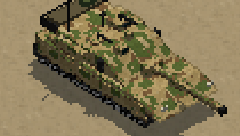
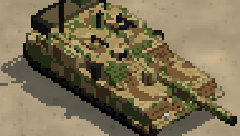
Amphibians on the unit strip with their own portraits, and squads straight into an AV at the ship
- Landing.loadAmphib(v, only): a squad from the well dock, or back off a craft that has not cast off
  (the craft fill the moment men arrive), straight aboard an amphibious vehicle lying at the pen;
  the player's Load does it for a selected waiting squad (input.loadInto), the commander's ride()
  for its AV before it gets armour orders; Landing.waitingSquads; the pen covers every mooring
- roster.js picks the amphib/amphibSupply portraits and tags the AV as AAV
- tools/make-portraits.mjs renders the two by name on any map, and cancels the opening flight,
  which had been carrying the camera off every subject since it came in; every portrait
  re-rendered from the vox models

diff --git a/src/game/landing.js b/src/game/landing.js
@@ -28,7 +28,7 @@ export class Landing {
   held(l) { const o = this.m.objectives, p = o && o.list.find(q => q.name === l.place); return !!p && p.owner === this.team; }
   dumpAt(x, z) { return this.lanes.some(l => this.held(l) && Math.hypot(x - l.at.x, z - l.at.z) < RULES.landing.dump); }
   refillPoint(x, z, amphib = false) { const d = this.lanes.filter(l => this.held(l)).sort((a, b) => Math.hypot(a.at.x - x, a.at.z - z) - Math.hypot(b.at.x - x, b.at.z - z))[0]; return d ? d.at : amphib ? this.pen() : this.home(); }
-  pen() { const [dx, dz] = this.sea.dock, h = this.sea.out; return { x: dx + Math.sin(h) * 30, z: dz + Math.cos(h) * 30, r: 40 }; }   // the water off the stern, where an amphibious carrier comes home to fill up
+  pen() { const [dx, dz] = this.sea.dock, h = this.sea.out; return { x: dx + Math.sin(h) * 36, z: dz + Math.cos(h) * 36, r: 60 }; }   // the water off the stern, where an amphibious carrier comes home to fill up
   atPen(x, z) { const p = this.pen(); return Math.hypot(x - p.x, z - p.z) < p.r || this.atShip(x, z); }
 
   // where an amphibious vehicle lies when it is home: moorings off the stern quarters, the first with no vehicle on it
@@ -38,6 +38,20 @@ export class Landing {
     return spots.find(([x, z]) => !U.some(u => !u.dead && !u.afloat && !u.spec.naval && Math.hypot(u.pos.x - x, u.pos.z - z) < 6)) || spots[0];
   }
   moor(u) { const [x, z] = this.mooring(); u.afloat = false; u.mounted = null; u.group.visible = true; u.pos.set(x, this.m.world.terrain.water, z); u.heading = this.sea.out; u.group.rotation.y = u.heading; u.speed = 0; u.target = null; u.dest = null; u.path = null; }
+  // a squad waiting in the well dock, or aboard a craft still in it, straight into an amphibious vehicle lying alongside:
+  // the first squad with room for all its men, or the loose soldiers, as many as there are seats; returns how many went
+  // aboard. The craft fill the moment men arrive, so a vehicle alongside takes its squad back off one before it casts off
+  waitingSquads() { return [this.dock, ...this.craft.filter(c => !c.dead && c.state === 'dock')].flatMap(h => h.passengers).filter(u => u.type === 'soldier' && u.squad).length; }   // men a vehicle alongside could take
+  loadAmphib(v, only = null) {
+    if (!v.amphib || v.dead || !this.atPen(v.pos.x, v.pos.z)) return 0;
+    const holds = [this.dock, ...this.craft.filter(c => !c.dead && c.state === 'dock')], within = (u) => holds.some(h => h.passengers.includes(u));
+    const men = holds.flatMap(h => h.passengers).filter(u => u.type === 'soldier' && (!only || only.includes(u))), room = (v.spec.seats || 0) - v.passengers.length;
+    if (room <= 0 || !men.length) return 0;
+    const sq = men.map(u => u.squad).find(s => s && s.members.filter(m => !m.dead && within(m)).length <= room);
+    const take = (sq ? men.filter(u => u.squad === sq) : men).slice(0, room);
+    for (const u of take) { const h = holds.find(x => x.passengers.includes(u)); h.passengers.splice(h.passengers.indexOf(u), 1); u.afloat = false; u.mount(v); }
+    return take.length;
+  }
   // a unit into the well dock: hidden, aboard nothing yet, waiting for the next craft out (an amphibian to a mooring instead)
   embark(u) {
     if (u.amphib) { this.moor(u); return; }

diff --git a/src/core/roster.js b/src/core/roster.js
@@ -105,7 +105,7 @@ export class Roster {
     return d;
   }
   vehicle(u) {
-    const m = this.app.match, [sub, ord] = VEH[u.type], d = { key: 'v:' + u.label, label: u.label, sub: u.supply ? 'SUPPLY' : sub, pic: u.supply ? 'supply' : u.type, kind: 'veh', ord, units: [u], anchor: u.pos };
+    const m = this.app.match, [sub, ord] = VEH[u.type], d = { key: 'v:' + u.label, label: u.label, sub: u.supply ? 'SUPPLY' : u.amphib ? 'AAV' : sub, pic: u.amphib ? (u.supply ? 'amphibSupply' : 'amphib') : u.supply ? 'supply' : u.type, kind: 'veh', ord, units: [u], anchor: u.pos };
     d.hp = u.hp / u.maxHp; if (u.supply) d.sup = u.supplies / RULES.fob.truckSupplies; if (u.seats) d.seat = `${u.passengers.length}/${u.seats}`;
     d.alert = this.hit(d.key, [u], u.hp);
     const feeding = m.fobs.builds.find(b => b.truck === u), go = u.dest || u.target, air = u.spec.air;
@@ -122,7 +122,7 @@ export class Roster {
   }
   lost(e, T) {   // a destroyed vehicle waiting at main
     const u = e.unit, [sub, ord] = VEH[u.type], q = this.eta(e, T);
-    return { key: 'v:' + u.label, label: u.label, sub: u.supply ? 'SUPPLY' : sub, pic: u.supply ? 'supply' : u.type, kind: 'veh', ord, units: [], anchor: T.base, down: true, glyph: 'clock', text: `Destroyed · back in ${mmss(q.t)}`, ring: { f: 1 - q.t / Math.max(q.t, q.total), t: q.t, glyph: 'clock', color: 'var(--muted)' } };
+    return { key: 'v:' + u.label, label: u.label, sub: u.supply ? 'SUPPLY' : u.amphib ? 'AAV' : sub, pic: u.amphib ? (u.supply ? 'amphibSupply' : 'amphib') : u.supply ? 'supply' : u.type, kind: 'veh', ord, units: [], anchor: T.base, down: true, glyph: 'clock', text: `Destroyed · back in ${mmss(q.t)}`, ring: { f: 1 - q.t / Math.max(q.t, q.total), t: q.t, glyph: 'clock', color: 'var(--muted)' } };
   }
   site(b) {   // a build going up: its own card until it is done
     if (!this.ids.has(b)) this.ids.set(b, this.nextId++);

diff --git a/src/game/ai/strategist.js b/src/game/ai/strategist.js
@@ -764,6 +764,16 @@ export class Strategist {
       if (!v.dest) v.order(lift.drop[0], lift.drop[1]);   // stopped short (backed off from a threat, say): carry on
       return true;
     }
+    const L = this.teams[this.team].landing;
+    if (v.amphib && L) {   // an amphibian alongside the ship takes a squad straight from the well dock and swims it to a quiet spot short of the goal
+      if (!this.lift || !goal || v.passengers.length || !L.atPen(v.pos.x, v.pos.z) || !L.waitingSquads()) return false;
+      let drop = this.quietSpot(L.home(), goal, 100, 80); if (!drop) return false;
+      if (!this.vehicleReaches(v, drop[0], drop[1])) { drop = this.supportSpot(v, goal, 140); if (!drop) return false; }
+      if (!L.loadAmphib(v)) return false;
+      const sq = v.passengers[0].squad; if (!sq) return true;   // loose men aboard: it drives its own orders and sets them down where it stops
+      sq.tag = 'lift'; this.lifts.set(v, { sq, drop, stage: 'board', t: 0 }); this.lifts.set(sq, v);
+      return true;
+    }
     if (!this.lift || !goal || v.passengers.length || Math.hypot(v.pos.x - base.x, v.pos.z - base.z) > 60 || Math.hypot(goal.x - v.pos.x, goal.z - v.pos.z) < 250) return false;
     // a squad around base (just respawned there, or not yet sent far) that would otherwise walk 250 m or more
     const sq = squads.filter(s => { const c = s.centroid(); return !s.mounted && !this.lifts.has(s) && s.aliveCount <= v.seats && Math.hypot(c.x - base.x, c.z - base.z) < 150 && Math.hypot(c.x - goal.x, c.z - goal.z) > 250; })

diff --git a/src/core/input.js b/src/core/input.js
@@ -173,6 +173,11 @@ export class Input {
   // the pick after Load: a vehicle of ours with a free seat takes the soldiers and becomes the selection, ready to drive; anything else cancels
   loadInto(u) {
     this.loading = false;
+    const L = this.app.match && this.app.match.landing, me = this.app.playerTeam ?? 0;
+    if (L && u && u.amphib && u.team === me && !u.dead) {   // men waiting in the well dock go straight aboard an amphibian lying alongside
+      const dock = this.selected.filter(s => s.type === 'soldier' && s.afloat && (s.mounted === L.dock || (s.mounted && s.mounted.type === 'craft' && s.mounted.state === 'dock')));   // in the dock, or aboard a craft still in it
+      if (dock.length) { const n = L.loadAmphib(u, dock); this.hud.toast(n ? `${n} aboard ${u.label}` : u.passengers.length >= u.seats ? `${u.label} has no free seat` : `${u.label} must be alongside the ship`); this.select([u]); return; }
+    }
     if (!this.canBoard(u)) { this.hud.toast(u && u.seats && u.team === (this.app.playerTeam ?? 0) && !u.dead ? `${u.label} has no free seat` : 'Loading cancelled'); this.hud.showSelection(this.selected); return; }
     this.board(u); this.select([u]);
   }

diff --git a/docs/GAME_PLAN.md b/docs/GAME_PLAN.md
@@ -2361,7 +2361,18 @@ Engine changes needed in the existing core:
     and arrived in 62 s; the carrier, sent to fill with 5 supplies, swam to the pen and came
     back to 93; in six minutes of a CPU match the commander's AV swam ashore inside the first
     minute and fought inland until it was lost, and its carrier landed and went to a FOB
-    site; no errors. The unit strip shows them with the APC and supply-truck portraits.
+    site; no errors.
+  - **Follow-ups (2026-10-29, "Go 3").** Their own portraits on the unit strip (`roster.js`
+    picks `amphib`/`amphibSupply`, the vehicle tag reads AAV), and squads into the AV at the
+    ship: `Landing.loadAmphib(v, only)` takes a squad from the well dock, or back off a craft
+    that has not cast off (the craft fill the moment men arrive, so the first attempt found
+    the dock empty), straight aboard a vehicle lying at the pen; the player's Load does it
+    for a selected waiting squad, and the commander's `ride` does it for its AV before giving
+    it armour orders. Checked: the CPU's AV took a squad at the first second and set it down
+    ashore at 67 s; the player's path loaded four off a docked craft and landed them.
+  - The portrait tool had been rendering blank frames since the opening flight came in: the
+    camera flew while it measured. It now cancels the flight, and every portrait was
+    re-rendered from the vox models.
 
 ## Open questions
 

diff --git a/README.md b/README.md
@@ -106,6 +106,9 @@ its main base is an assault ship off the west coast. Its helicopters fly from th
 deck. Its APCs and supply trucks are amphibious: they lie at moorings off the stern and
 swim ashore under your orders (3.6 m/s afloat, slower still for the carrier), landing
 wherever the shore is gentle enough to drive up, and the carrier swims home to fill up.
+A squad waiting in the well dock, or aboard a craft that hasn't cast off, can be put
+into an APC lying alongside: select it, press Load and click the APC (the CPU does the
+same, so its first AV swims in with a squad).
 Infantry and tanks wait in the well dock and go ashore in three landing craft that run
 fixed lanes to the beach you pick on the unit strip ("Land at ..."); they cast off one
 at a time, run abreast 18 m apart and beach side by side. North Cove takes
